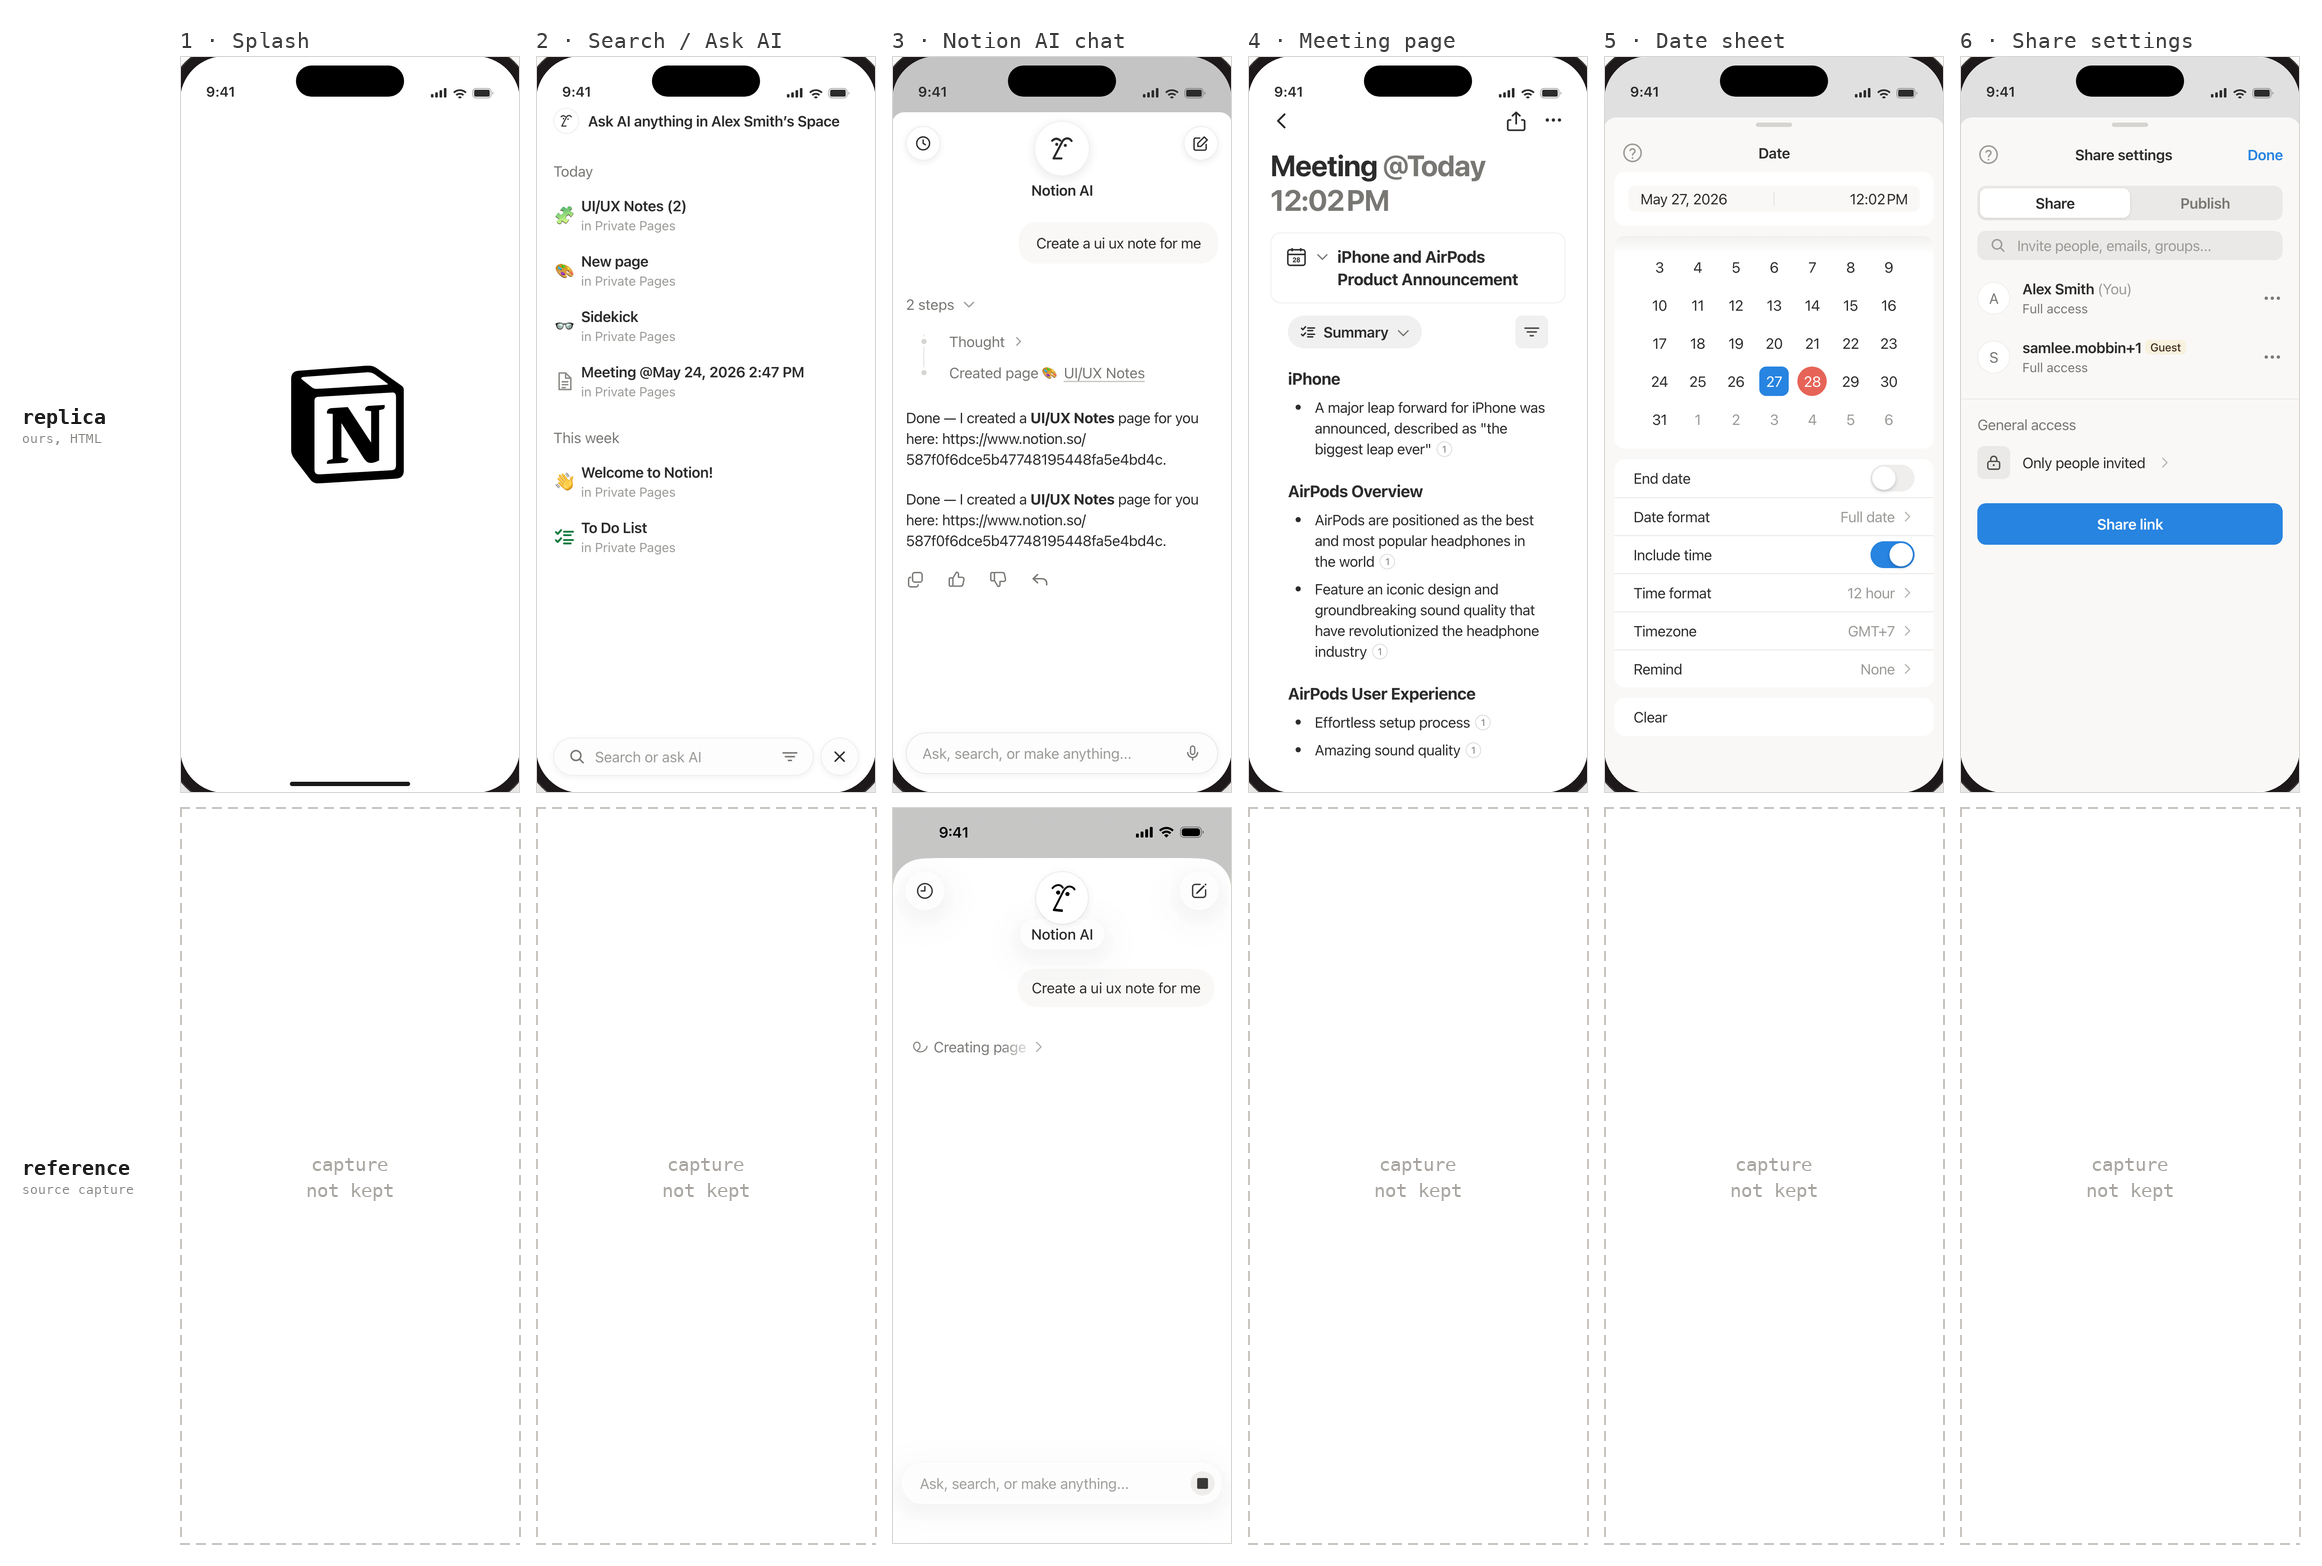
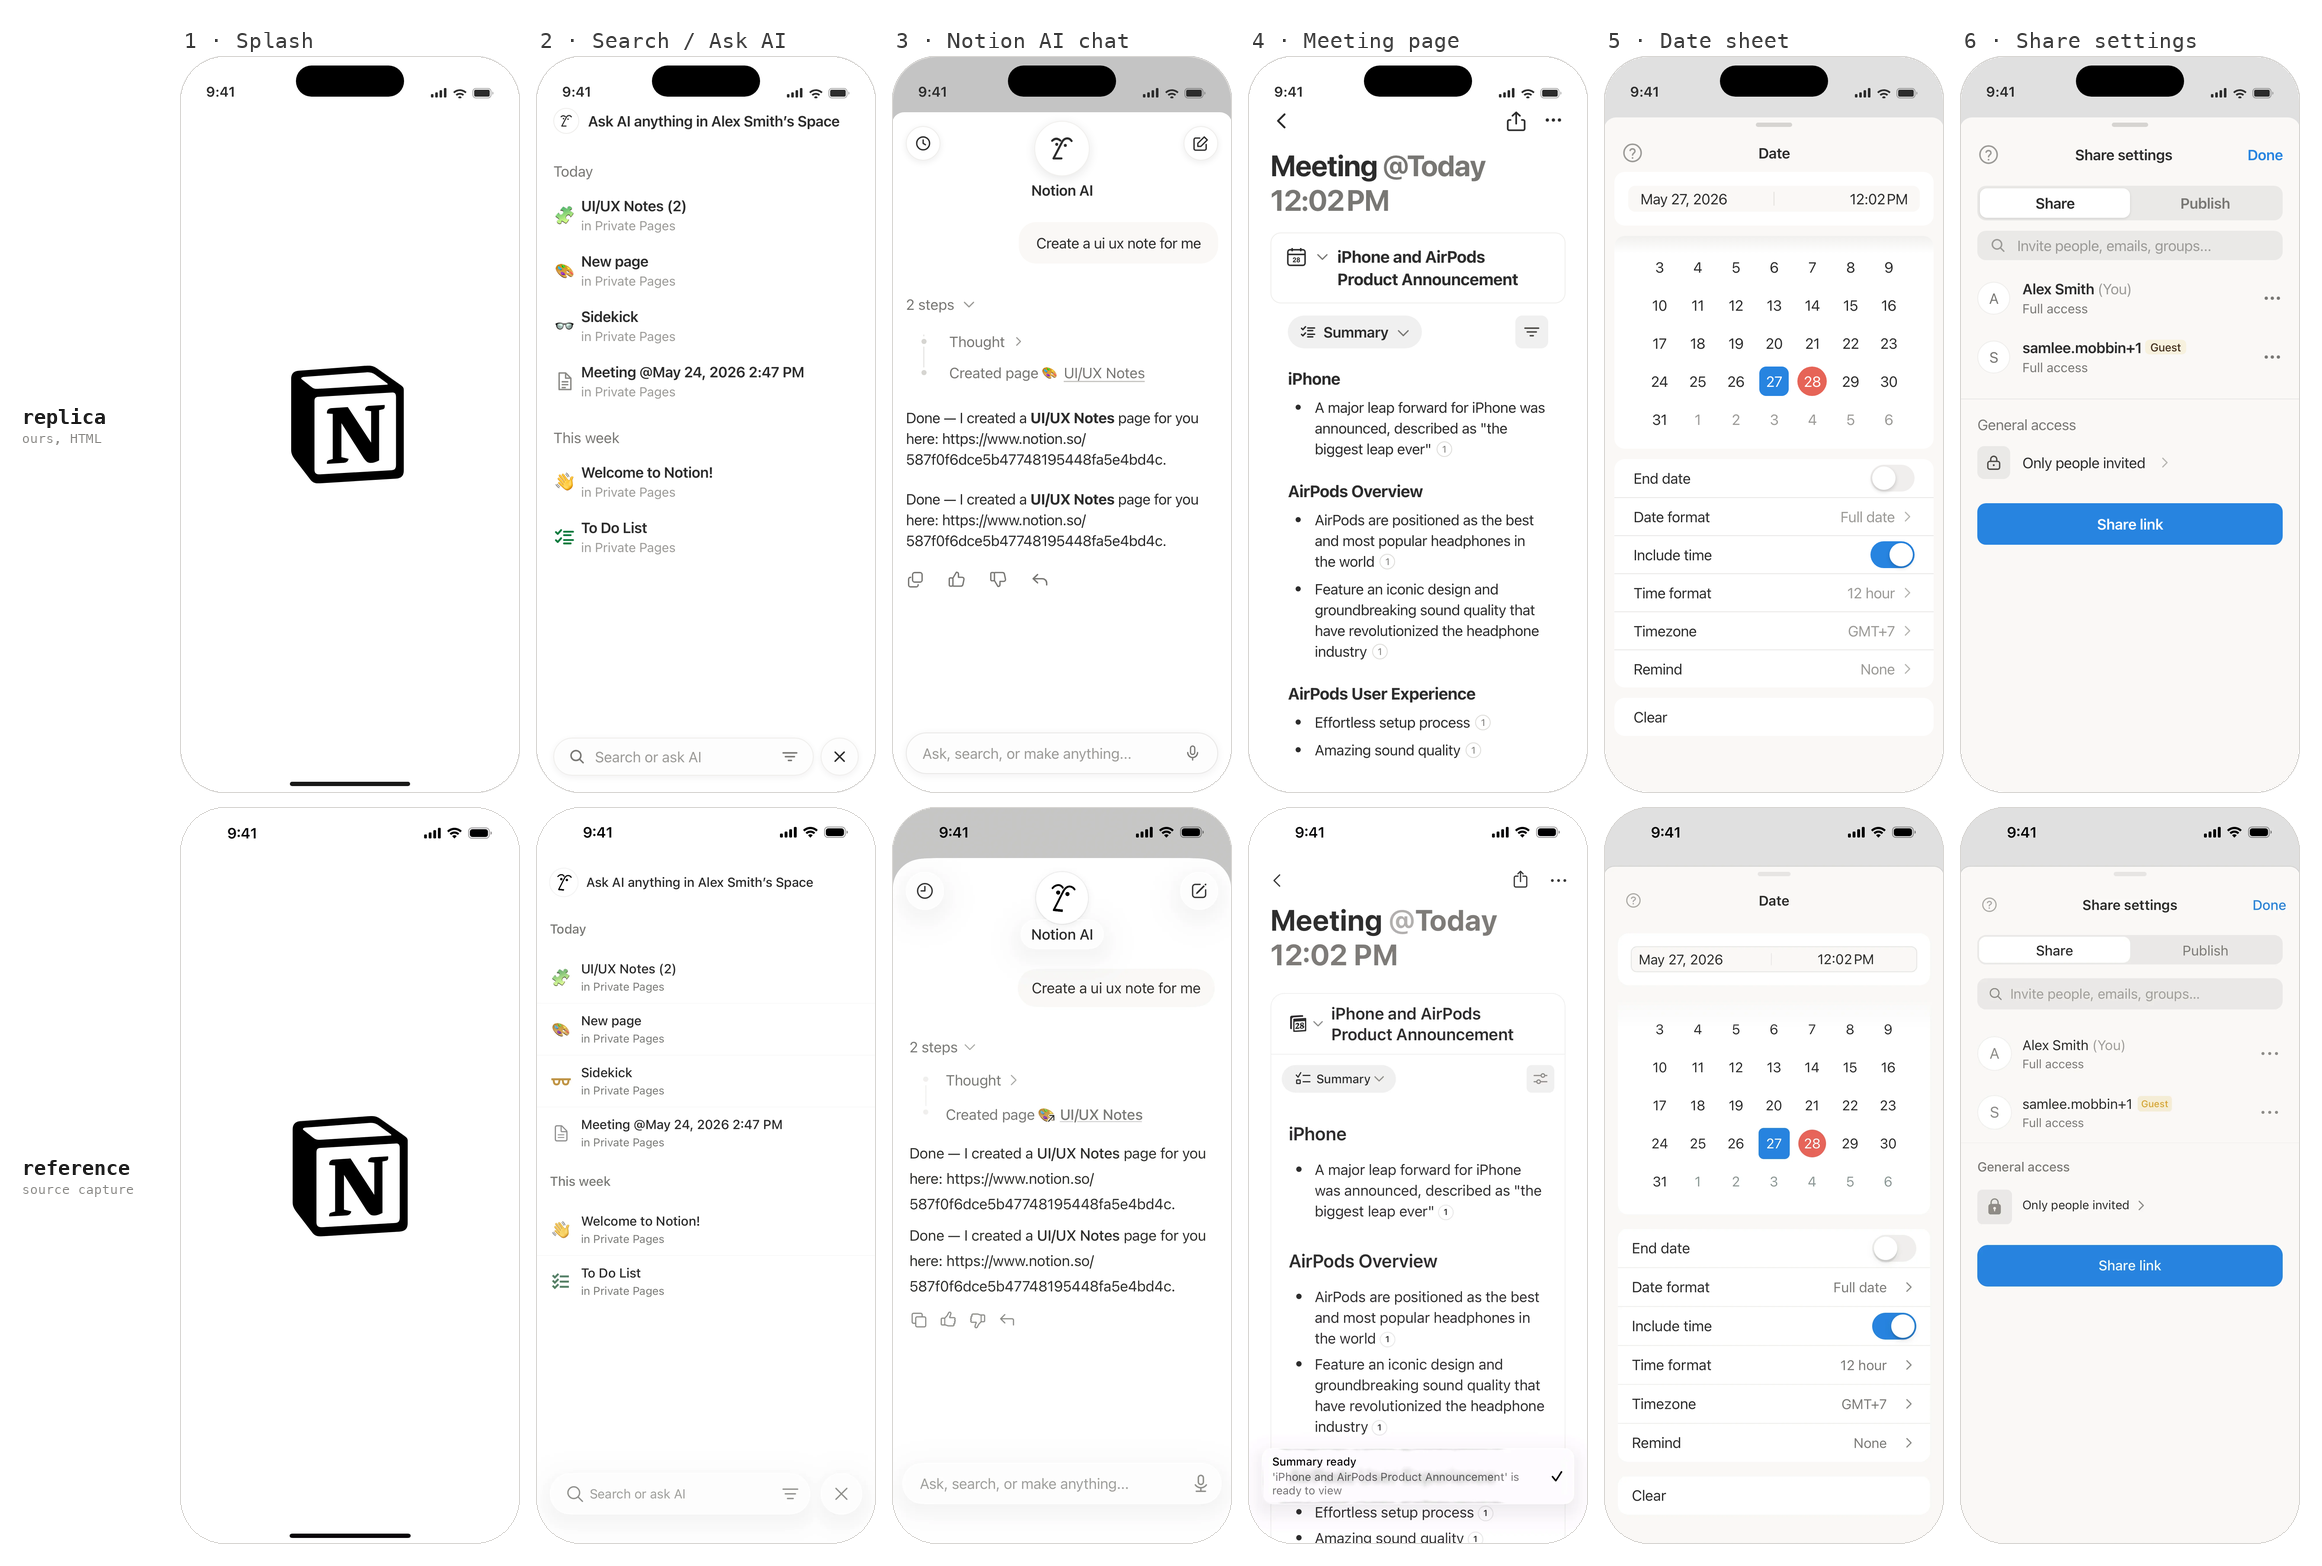
Mask the phone's 52pt corners on crop; all six Notion captures paired

diff --git a/tools/refkit.py b/tools/refkit.py
@@ -29,10 +29,24 @@ from PIL import Image, ImageDraw
 
 CHROME = "/Applications/Google Chrome.app/Contents/MacOS/Google Chrome"
 PHONE_FRAME = "1D191A"          # the shared artboard phone frame's bezel colour
+PHONE_RADIUS = 52               # .phone border-radius, in design pt
+
+
+def _flat(p):
+    """Open as RGB. A cropped phone screen carries transparent 52pt corners;
+    flatten them onto white rather than dropping the alpha and exposing the
+    black bezel they were cut out of."""
+    im = Image.open(p)
+    if "A" not in im.getbands():
+        return im.convert("RGB")
+    im = im.convert("RGBA")
+    bg = Image.new("RGB", im.size, "white")
+    bg.paste(im, mask=im.getchannel("A"))
+    return bg
 
 
 def _rgb(p):
-    return np.asarray(Image.open(p).convert("RGB"), dtype=np.uint8)
+    return np.asarray(_flat(p), dtype=np.uint8)
 
 
 def _hex(c):
@@ -86,7 +100,7 @@ def _runs(f, minfrac):
 
 
 def cmd_grid(a):
-    im = Image.open(a.image).convert("RGB")
+    im = _flat(a.image)
     z = a.zoom
     big = im.resize((im.width * z, im.height * z), Image.NEAREST)
     d = ImageDraw.Draw(big, "RGBA")
@@ -204,7 +218,19 @@ def _crop_phone(im, scale, frame=PHONE_FRAME, tol=24, w=393, h=852):
     cx, cy = (xs.min() + xs.max() + 1) / 2, (ys.min() + ys.max() + 1) / 2
     tw, th = int(round(w * scale)), int(round(h * scale))
     x, y = int(round(cx - tw / 2)), int(round(cy - th / 2))
-    return im.crop((x, y, x + tw, y + th))
+    return _round_corners(im.crop((x, y, x + tw, y + th)), PHONE_RADIUS * scale)
+
+
+def _round_corners(im, r, ss=4):
+    """The .phone box is a rounded rect, so a rectangular crop of it keeps four
+    wedges of bezel. Punch them out — otherwise every montage of a cropped
+    screen shows black corners. Mask built at ss x for a clean edge."""
+    m = Image.new("L", (im.width * ss, im.height * ss), 0)
+    ImageDraw.Draw(m).rounded_rectangle([0, 0, m.width - 1, m.height - 1],
+                                        radius=round(r * ss), fill=255)
+    im = im.convert("RGBA")
+    im.putalpha(m.resize(im.size, Image.LANCZOS))
+    return im
 
 
 def _render(html, png, scale, w, h):
@@ -271,7 +297,7 @@ def cmd_diff(a):
     numbers to back up what you think you saw."""
     mine, ref = _rgb(a.mine), _rgb(a.ref)
     if a.out:
-        ims = [Image.open(p).convert("RGB") for p in (a.mine, a.ref)]
+        ims = [_flat(p) for p in (a.mine, a.ref)]
         ims = [i.resize((max(1, int(i.width * a.height / i.height)), a.height)) for i in ims]
         out = Image.new("RGB", (sum(i.width for i in ims) + a.gap, a.height), "white")
         x = 0
@@ -353,7 +379,7 @@ def cmd_tokens(a):
 
 
 def cmd_montage(a):
-    ims = [Image.open(p).convert("RGB") for g in a.images for p in sorted(glob.glob(g))]
+    ims = [_flat(p) for g in a.images for p in sorted(glob.glob(g))]
     ims = [i.resize((max(1, int(i.width * a.height / i.height)), a.height)) for i in ims]
     out = Image.new("RGB", (sum(i.width for i in ims), a.height), "white")
     x = 0
@@ -414,7 +440,8 @@ def main():
     t.add_argument("--w", type=int, default=478); t.add_argument("--h", type=int, default=980)
     t.add_argument("--scale", type=int, default=2)
     t.add_argument("--crop-phone", action="store_true",
-                   help="cut the 393x852 screen out of the frame, ready to diff")
+                   help="cut the 393x852 screen out of the frame, corners masked "
+                        "to the 52pt radius, ready to diff")
     t.add_argument("--check-overflow", action="store_true",
                    help="fail if a board's content runs past --h")
 

diff --git a/tools/test_refkit.py b/tools/test_refkit.py
@@ -73,7 +73,21 @@ def test_crop_phone_cuts_the_screen_out_of_the_frame():
     out = R._crop_phone(img(canvas), scale)
     assert out.size == (393 * scale, 852 * scale), out.size
     a = np.asarray(out)
-    assert a.min() == 0xEF and a.max() == 0xEF, (a.min(), a.max())   # no bezel leaked in
+    assert out.mode == "RGBA", out.mode
+    rgb, alpha = a[..., :3], a[..., 3]
+    assert rgb[alpha == 255].min() == 0xEF and rgb[alpha == 255].max() == 0xEF   # no bezel leaked in
+    assert alpha[0, 0] == 0 and alpha[-1, -1] == 0                   # 52pt corners punched out
+    assert alpha[alpha.shape[0] // 2, 0] == 255                      # mid-height edge is screen
+
+
+def test_flat_composites_rounded_corners_onto_white():
+    im = Image.new("RGBA", (8, 8), (0x1D, 0x19, 0x1A, 0))
+    im.putpixel((4, 4), (0xEF, 0xEF, 0xEF, 255))
+    f = os.path.join(tempfile.mkdtemp(), "a.png")
+    im.save(f)
+    a = R._rgb(f)
+    assert tuple(a[0, 0]) == (255, 255, 255), a[0, 0]      # bezel does not come back
+    assert tuple(a[4, 4]) == (0xEF, 0xEF, 0xEF), a[4, 4]
 
 
 def test_crop_phone_returns_none_without_a_frame():

diff --git a/README.md b/README.md
@@ -28,16 +28,16 @@ evidence recorded for every token. Open either with `?canvas=<slug>`.
 
 [![notion-ios](assets/workflow/case-notion.png)](mockups/canvases/notion-ios/README.md)
 
-*Replica on top, source capture directly below it. Only screen 3 still has its
-capture on disk — the @3x Notion AI frame, curated by
-[Mobbin](https://mobbin.com); the other five came off a strip that was not
-kept, and the figure says so rather than quietly showing one row.*
+*Replica on top, its source capture directly below it — @3x frames from
+[Mobbin](https://mobbin.com)'s Notion iOS library, cropped to the same 393 × 852
+screen and masked to the same 52pt corner radius, so the two rows line up
+pixel for pixel.*
 
 Everything came off a single 0.7634 px/pt strip, which is why the settings
 dividers had to be solved rather than picked: `--n-hairline: #E9E8E7` is a 1pt
 coverage solve, and a naive sample of that same divider reports it far too
-light. Two of the six references were near-matches rather than the exact
-frame — a toast on one, a different date format on another — and
+light. One of the six references is a near-match rather than the exact frame —
+every capture of the meeting page carries a "Summary ready" toast — and
 [the board README](mockups/canvases/notion-ios/README.md) says which, because
 a near-match that goes unlabelled is how a replica quietly drifts.
 

diff --git a/mockups/canvases/notion-ios/README.md b/mockups/canvases/notion-ios/README.md
@@ -50,13 +50,17 @@ Screen ids from the original run, on
 | 2 | Search / Ask AI | `c119cf0c-6553-47b2-aead-63d060159283` | exact |
 | 3 | Notion AI chat | `24aa4e82-e084-4a67-a9aa-fae4bdf4dc4b` | exact |
 | 4 | Meeting page | `ac829a85-6eb1-4c89-80f2-668d3ca1c1c2` | near — carries a "Summary ready" toast |
-| 5 | Date sheet | `cfca14fb-a833-4bf6-b549-9e646bac5ec9` | near — Date format reads *Relative*, not *Full date* |
+| 5 | Date sheet | `365eabc0-4a33-4d0c-81ee-60ce8a8b5af9` | exact |
 | 6 | Share settings sheet | `80450381-9922-4123-b6d2-b3b624b4c3d9` | exact |
 
-Two of the six had no exact frame in the index after three rounds of
-`exclude_screen_ids`-narrowed searching. Stating that is the point: a
-near-match that goes unlabelled is how a replica quietly drifts from its
-source.
+Screen 4 has no exact frame in the index — every capture of that page carries
+a toast. Stating that is the point: a near-match that goes unlabelled is how a
+replica quietly drifts from its source.
+
+Screen 5 was recorded as a near-match in the original run against
+`cfca14fb-…`, which is a *Link expires* sheet from a different flow. The frame
+above is the exact one, found by pairing each replica with its capture
+side by side — which is what the paired figure in the repo README is for.
 
 ## Attribution
 

diff --git a/.agents/skills/clone-prototype/SKILL.md b/.agents/skills/clone-prototype/SKILL.md
@@ -220,7 +220,9 @@ python3 "$REPO/tools/refkit.py" diff mine/07-models-sheet.png refs/cp7.png \
     --pt 3 -o d07.png --regions regions.json
 ```
 
-`--crop-phone` removes the crop step from every iteration. `diff` writes the
+`--crop-phone` removes the crop step from every iteration; it also masks the
+52pt corners, so a cropped screen composites onto any ground without the
+four black wedges of bezel a rectangular crop keeps. `diff` writes the
 side-by-side **and** prints the numbers behind it: with `--regions` (inline
 `{"name": [x0,y0,x1,y1]}`, or a file you write once and reuse for the run) it
 tables mine-vs-ref per region with a Δ column; with no regions it ranks the
